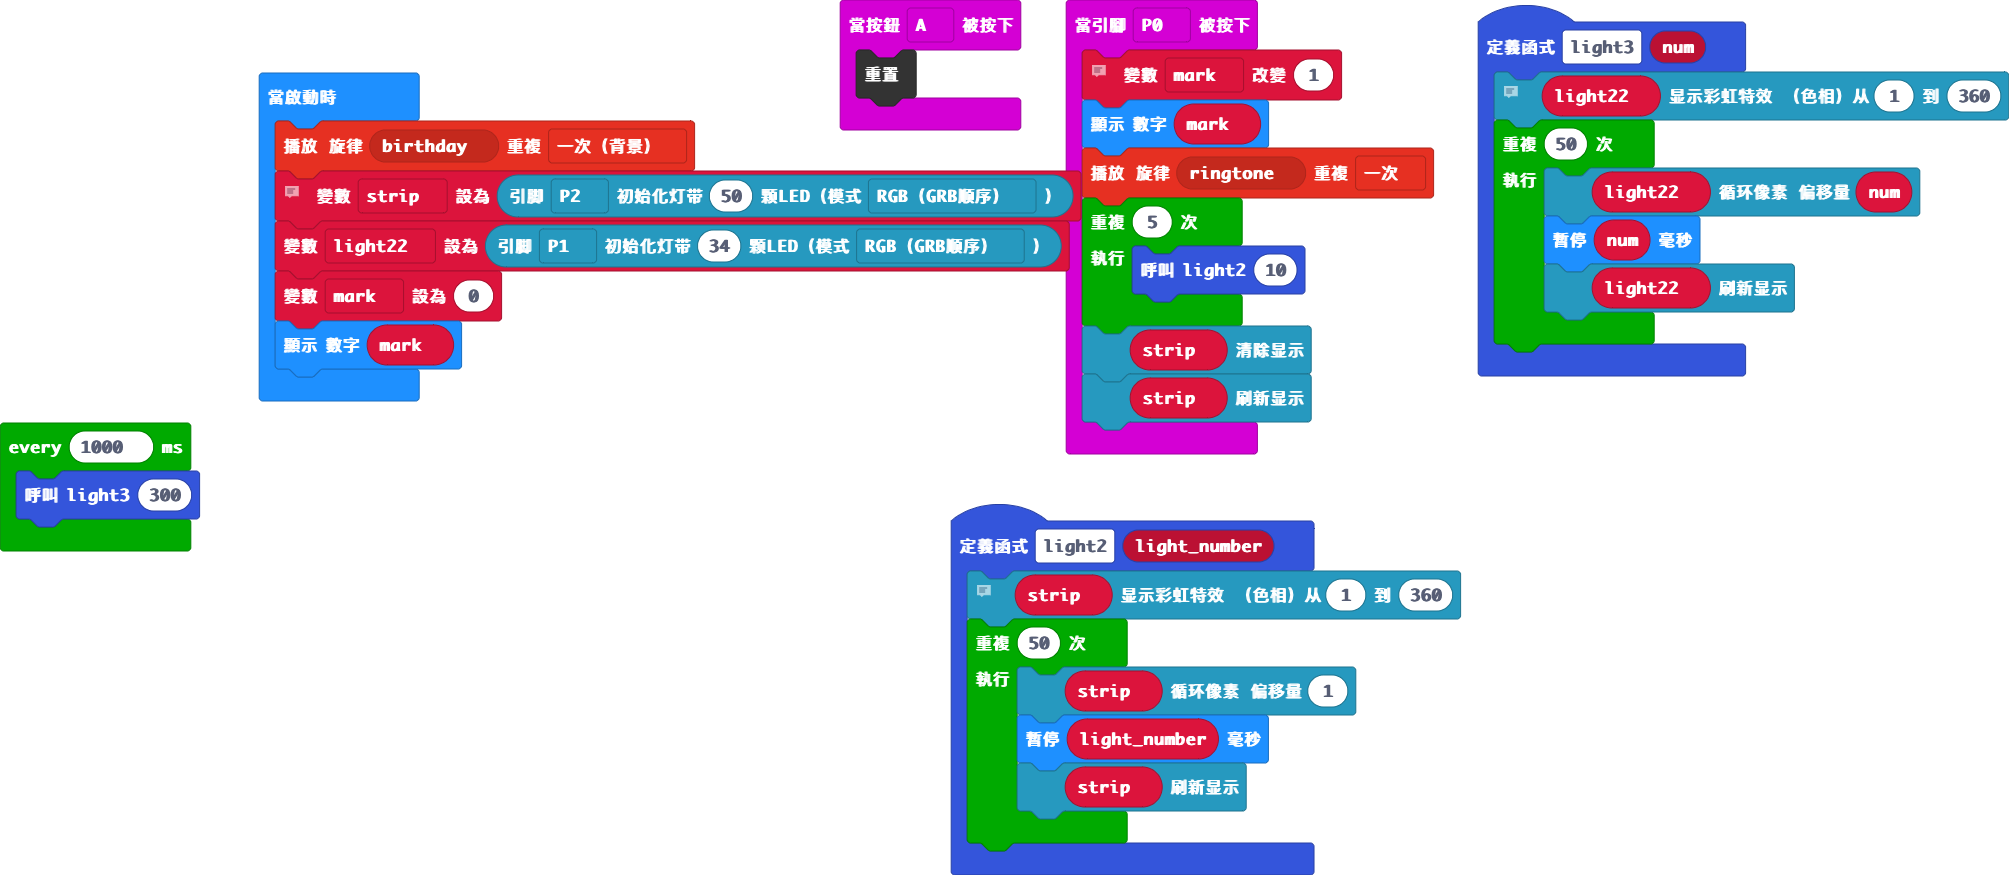
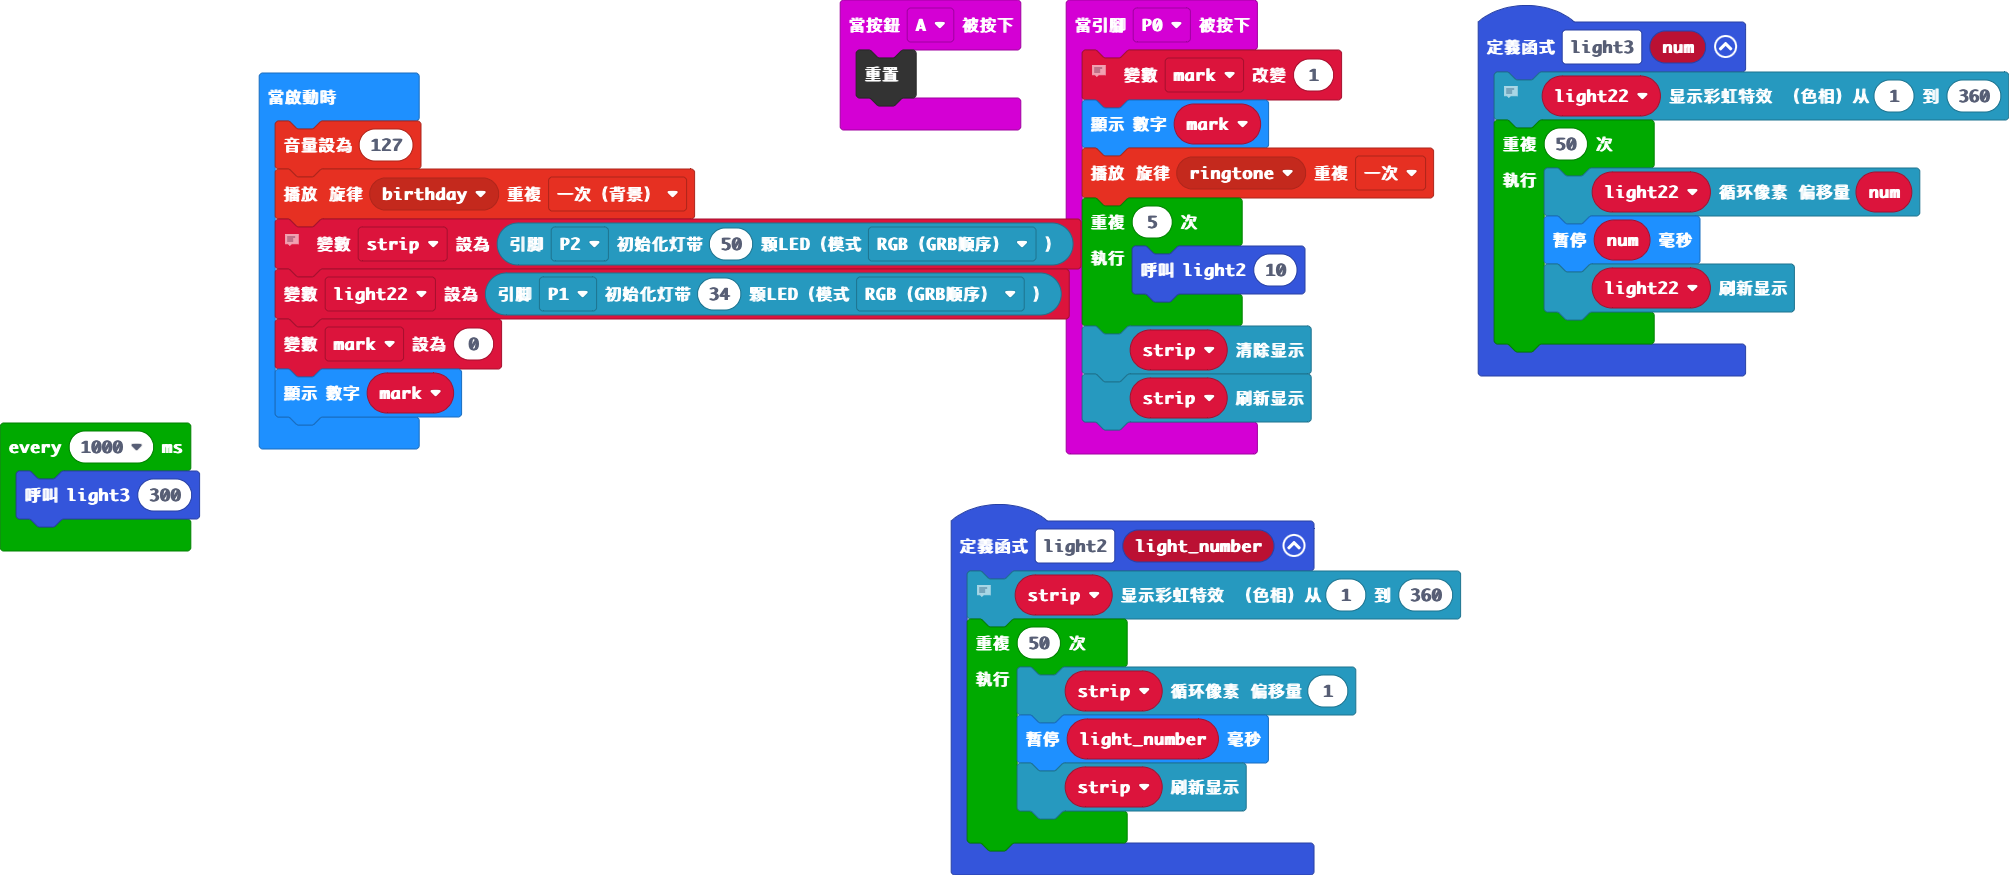
更新 main.blocks, main.ts

Changed region(s): [[0.1234, 0.1234, 0.5555, 0.5246], [0.8333, 0.0309, 0.8641, 0.0617]]

diff --git a/main.ts b/main.ts
@@ -33,6 +33,7 @@ function light2 (light_number: number) {
 let mark = 0
 let light22: neopixel.Strip = null
 let strip: neopixel.Strip = null
+music.setVolume(127)
 music.startMelody(music.builtInMelody(Melodies.Birthday), MelodyOptions.OnceInBackground)
 // start
 strip = neopixel.create(DigitalPin.P2, 50, NeoPixelMode.RGB)
